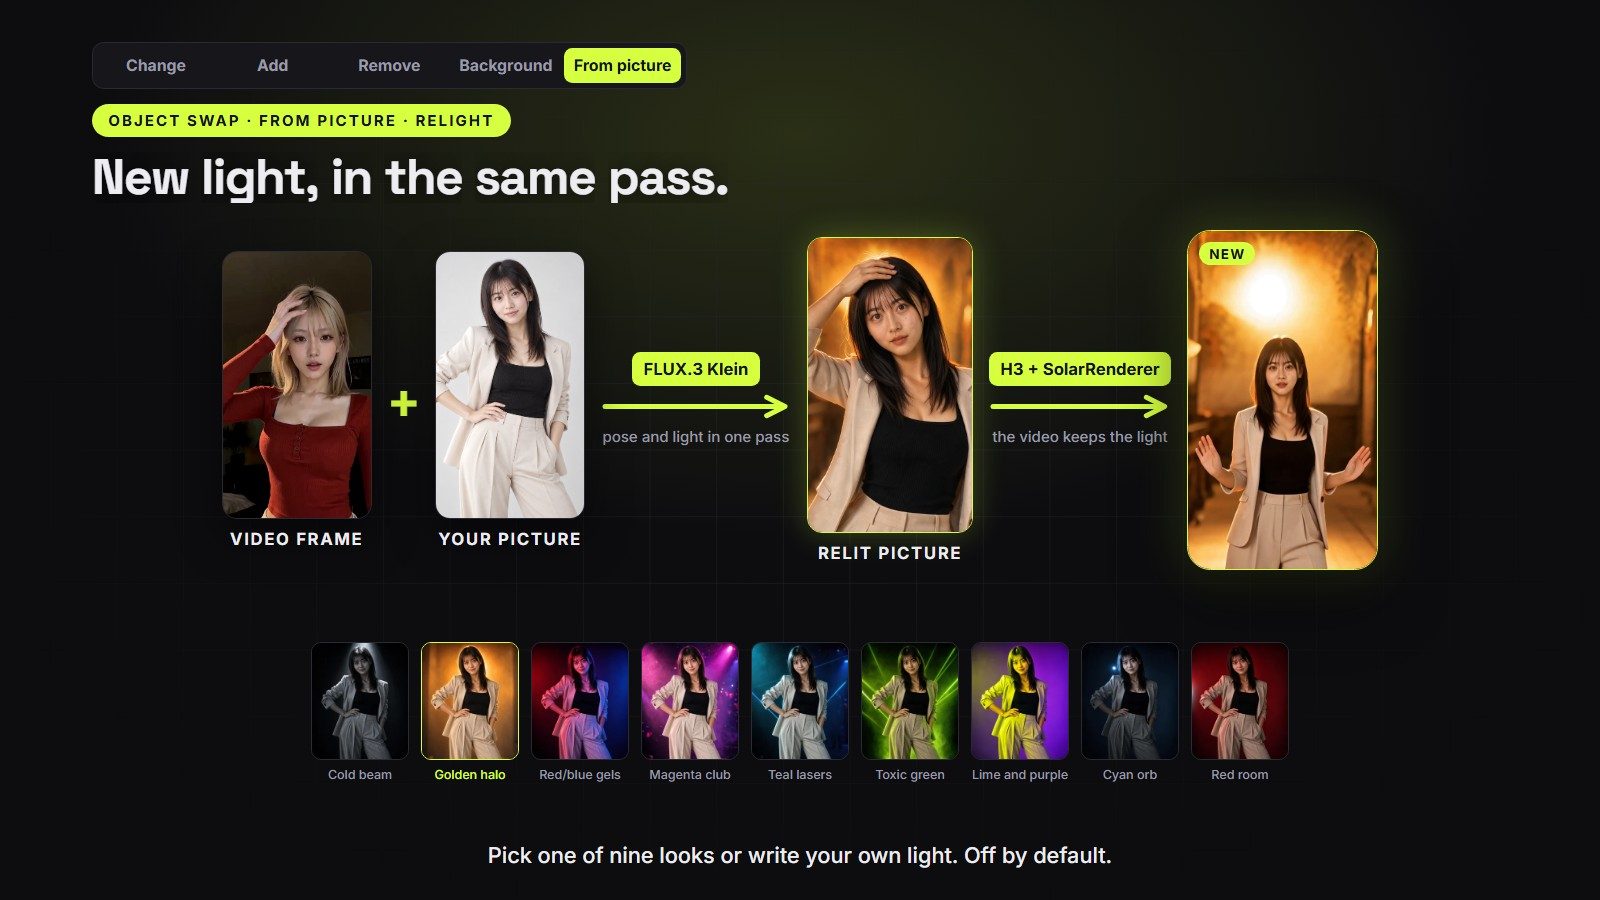
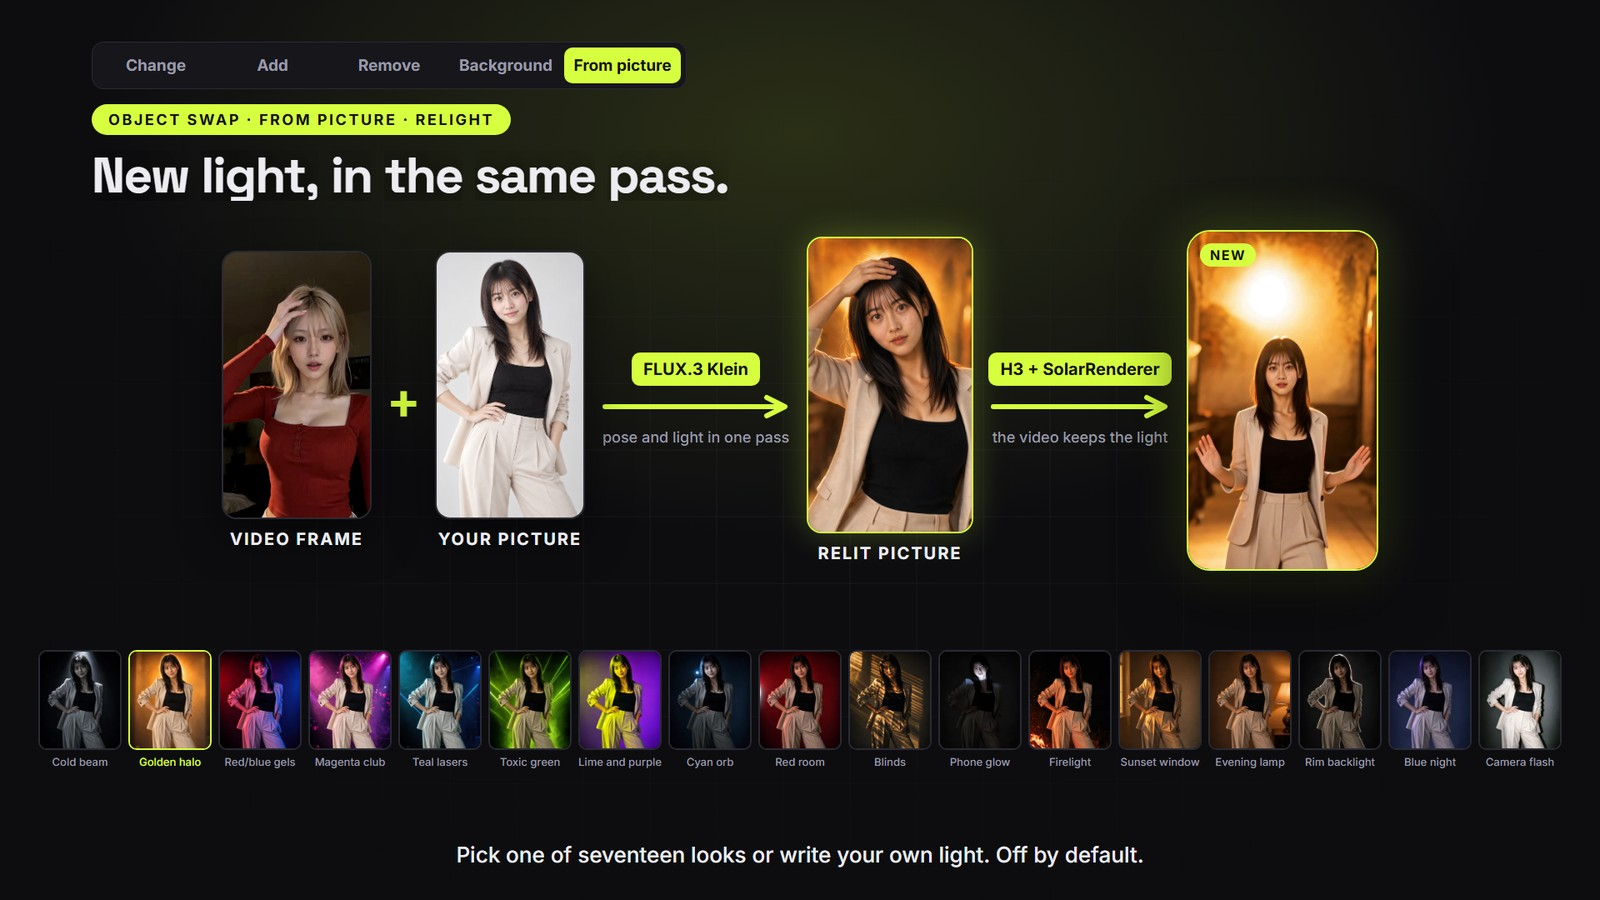
Update the relight README picture to show all seventeen looks

diff --git a/README.md b/README.md
@@ -14,7 +14,7 @@ https://github.com/user-attachments/assets/2d8d763a-1764-49a6-9116-d6d1be661ff6
 
 **From picture → Relight: new light in the same pass**
 
-![A video frame and a picture combined into a posed picture under golden backlight, then a video that keeps the light, with the nine light looks below](docs/media/relight.jpg)
+![A video frame and a picture combined into a posed picture under golden backlight, then a video that keeps the light, with the seventeen light looks below](docs/media/relight.jpg)
 
 ## First visit: visual describer
 
